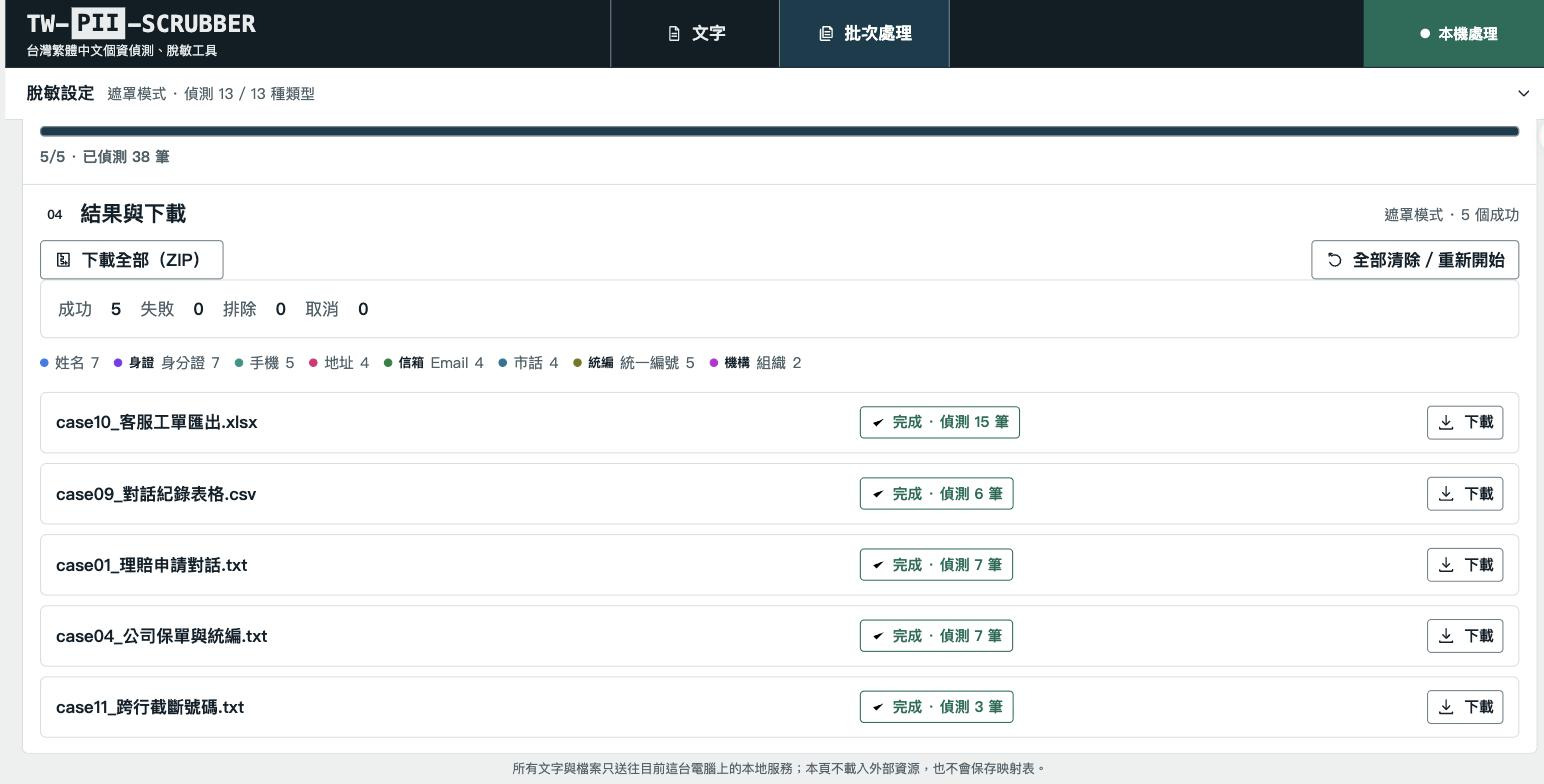
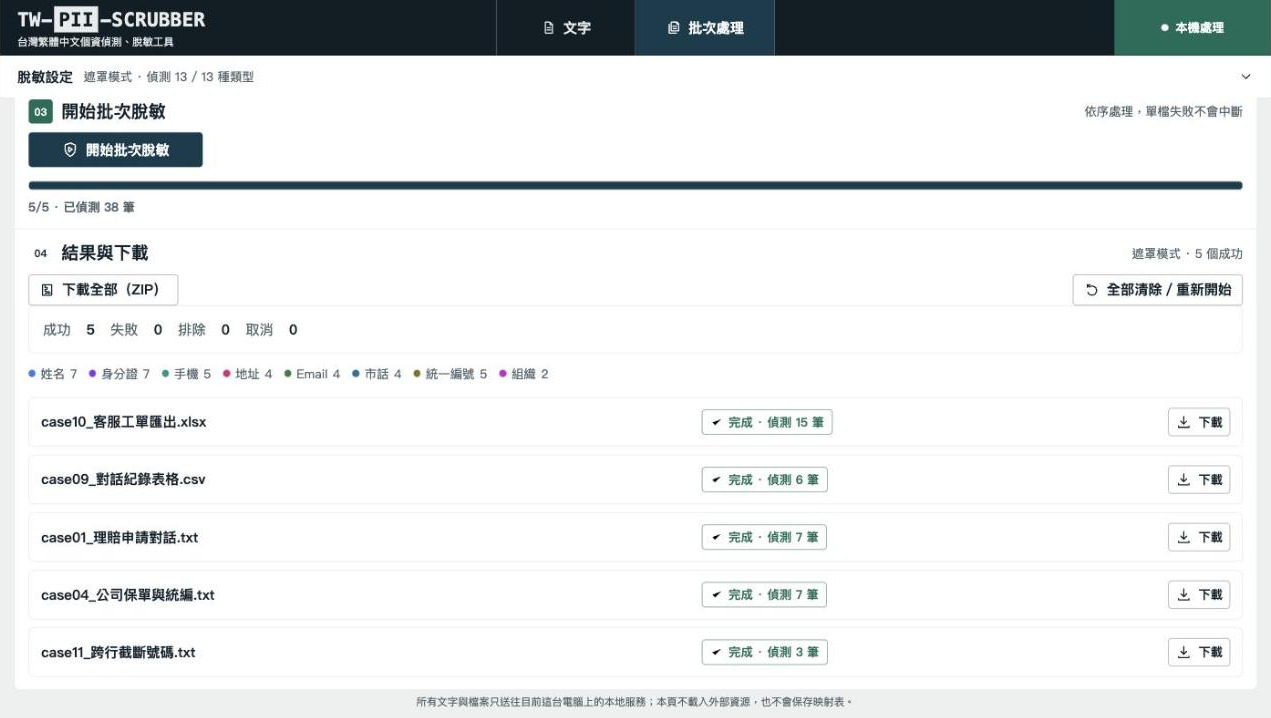
refactor: 圖例與明細移除與全名重複的兩字短碼
短碼是 5 群組配色時期的產物:當時 13 種類型共用 5 個群組色,光看顏色
分不出「姓名」與「身分證」,才需要不依賴顏色的第二重編碼。改為每型
專屬色並錯開線型之後,短碼已無消歧作用,而且它從不單獨出現——永遠
緊貼全名,等於把答案和題目寫在同一行;又因為短碼與全名相同時會自動
省略,呈現上一半重複一半不重複,看起來像未改完的東西。

移除四處渲染:圖例、偵測明細、批次統計,以及稽核軸 aria-label 的
「短碼 全名」前綴(螢幕閱讀器原本會連念兩次同義詞)。ENTITY_STYLES
的 code 欄位、entityShortCode() 與 .entity-code 樣式一併刪除。

色覺輔助不受影響:高亮仍是顏色 + 底線線型雙重編碼,每個高亮 span 也
保有 aria-label。截圖同步重拍。

diff --git a/static/index.html b/static/index.html
@@ -1920,14 +1920,6 @@
       font-weight: var(--fw-regular);
     }
 
-    .entity-code {
-      color: var(--ink);
-      font-family: ui-monospace, SFMono-Regular, Menlo, Consolas, monospace;
-      font-size: var(--fs-xs);
-      font-weight: var(--fw-bold);
-      line-height: 1;
-    }
-
     .entity-full-label {
       color: var(--ink-2);
     }
@@ -2561,22 +2553,22 @@
     const MAX_TEXT_LENGTH = 50000;
     const MAX_BATCH_FILES = 20;
     const ENTITY_STYLES = Object.freeze({
-      PERSON: { group: '身分', line: 'solid', code: '姓名', label: '自然人姓名', background: '#E9F1FD', border: '#2B7CE9' },
-      TW_NATIONAL_ID: { group: '身分', line: 'double', code: '身證', label: '身分證字號', background: '#F1EAFE', border: '#7C3AED' },
-      BIRTHDAY: { group: '身分', line: 'double', code: '生日', label: '出生日期', background: '#FDEFE4', border: '#EA580C' },
-      TW_MOBILE: { group: '聯絡', line: 'double', code: '手機', label: '手機號碼', background: '#E2F5F2', border: '#0D9488' },
-      TW_PHONE: { group: '聯絡', line: 'dashed', code: '市話', label: '市內電話', background: '#E2F2F7', border: '#0E7490' },
-      EMAIL_ADDRESS: { group: '聯絡', line: 'solid', code: '信箱', label: '電子郵件', background: '#E6F4EA', border: '#15803D' },
-      CREDIT_CARD: { group: '金融', line: 'solid', code: '卡號', label: '信用卡號', background: '#FCE9E9', border: '#B91C1C' },
-      TW_BANK_ACCOUNT: { group: '金融', line: 'dotted', code: '銀帳', label: '銀行帳號', background: '#E8ECF7', border: '#1E3A8A' },
-      TW_UBN: { group: '金融', line: 'dotted', code: '統編', label: '統一編號', background: '#F4F4DF', border: '#77761A' },
-      TW_POLICY_NO: { group: '金融', line: 'dashed', code: '保單', label: '保單號碼', background: '#F9F1DF', border: '#A16207' },
-      ORG: { group: '組織地點', line: 'dashed', code: '機構', label: '機構名稱', background: '#FBE9FD', border: '#C026D3' },
-      LOC: { group: '組織地點', line: 'dotted', code: '地址', label: '地址地點', background: '#FDE9F2', border: '#DB2777' },
-      AGENT_CODE: { group: '內部', line: 'groove', code: '代號', label: '客服人員代號', background: '#EEF0F2', border: '#4B5563' },
+      PERSON: { group: '身分', line: 'solid', label: '自然人姓名', background: '#E9F1FD', border: '#2B7CE9' },
+      TW_NATIONAL_ID: { group: '身分', line: 'double', label: '身分證字號', background: '#F1EAFE', border: '#7C3AED' },
+      BIRTHDAY: { group: '身分', line: 'double', label: '出生日期', background: '#FDEFE4', border: '#EA580C' },
+      TW_MOBILE: { group: '聯絡', line: 'double', label: '手機號碼', background: '#E2F5F2', border: '#0D9488' },
+      TW_PHONE: { group: '聯絡', line: 'dashed', label: '市內電話', background: '#E2F2F7', border: '#0E7490' },
+      EMAIL_ADDRESS: { group: '聯絡', line: 'solid', label: '電子郵件', background: '#E6F4EA', border: '#15803D' },
+      CREDIT_CARD: { group: '金融', line: 'solid', label: '信用卡號', background: '#FCE9E9', border: '#B91C1C' },
+      TW_BANK_ACCOUNT: { group: '金融', line: 'dotted', label: '銀行帳號', background: '#E8ECF7', border: '#1E3A8A' },
+      TW_UBN: { group: '金融', line: 'dotted', label: '統一編號', background: '#F4F4DF', border: '#77761A' },
+      TW_POLICY_NO: { group: '金融', line: 'dashed', label: '保單號碼', background: '#F9F1DF', border: '#A16207' },
+      ORG: { group: '組織地點', line: 'dashed', label: '機構名稱', background: '#FBE9FD', border: '#C026D3' },
+      LOC: { group: '組織地點', line: 'dotted', label: '地址地點', background: '#FDE9F2', border: '#DB2777' },
+      AGENT_CODE: { group: '內部', line: 'groove', label: '客服人員代號', background: '#EEF0F2', border: '#4B5563' },
       // 檔案批次的「整欄遮罩」策略產生的 finding(後端 entity_type)
-      COLUMN_MASK: { group: '內部', line: 'groove', code: '整欄', label: '整欄遮罩', background: '#EEF0F2', border: '#4B5563' },
-      DEFAULT: { group: '其他', line: 'groove', code: '其他', label: '未知類型', background: '#EEF0F2', border: '#4B5563' }
+      COLUMN_MASK: { group: '內部', line: 'groove', label: '整欄遮罩', background: '#EEF0F2', border: '#4B5563' },
+      DEFAULT: { group: '其他', line: 'groove', label: '未知類型', background: '#EEF0F2', border: '#4B5563' }
     });
 
     const state = {
@@ -2740,10 +2732,6 @@
         || entityType || '未知類型';
     }
 
-    function entityShortCode(entityType) {
-      return entityStyle(entityType).code || '其他';
-    }
-
     function applyEntityStyle(node, entityType) {
       const style = entityStyle(entityType);
       node.style.backgroundColor = style.background;
@@ -2761,20 +2749,12 @@
       node.style.color = style.border;
     }
 
-    function appendEntityIdentity(container, entityType, dotClass = 'entity-dot', options = {}) {
+    function appendEntityIdentity(container, entityType, dotClass = 'entity-dot') {
       const dot = createElement('span', dotClass);
       dot.setAttribute('aria-hidden', 'true');
       applyEntityDotStyle(dot, entityType);
       container.append(dot);
-      // 短碼是全名的縮寫,兩者並列只在「需要對照顏色」的地方有價值
-      // (圖例、明細表);控制項 chip 上並列只是冗餘,還會撐寬版面
-      const label = entityLabel(entityType);
-      const code = entityShortCode(entityType);
-      // 短碼與後端 label 相同時(如「姓名」)不重複顯示
-      if (options.code !== false && code !== label) {
-        container.append(createElement('span', 'entity-code', code));
-      }
-      container.append(createElement('span', 'entity-full-label', label));
+      container.append(createElement('span', 'entity-full-label', entityLabel(entityType)));
     }
 
     function revealOnce(element) {
@@ -3042,7 +3022,7 @@
           applyEntityDotStyle(tick, primary.finding.entity_type);
           if (cluster.members.length > 1) tick.classList.add('is-cluster');
           const describe = (member) =>
-            `${entityShortCode(member.finding.entity_type)} ${entityLabel(member.finding.entity_type)}:${String(member.finding.original_masked ?? '已遮罩')}`;
+            `${entityLabel(member.finding.entity_type)}:${String(member.finding.original_masked ?? '已遮罩')}`;
           tick.setAttribute(
             'aria-label',
             cluster.members.length > 1
@@ -3293,7 +3273,7 @@
           checkbox.checked = true;
           checkbox.addEventListener('change', refreshControls);
           label.append(checkbox);
-          appendEntityIdentity(label, entity.id, 'entity-dot', { code: false });
+          appendEntityIdentity(label, entity.id, 'entity-dot');
           elements.entityList.append(label);
         });
 
